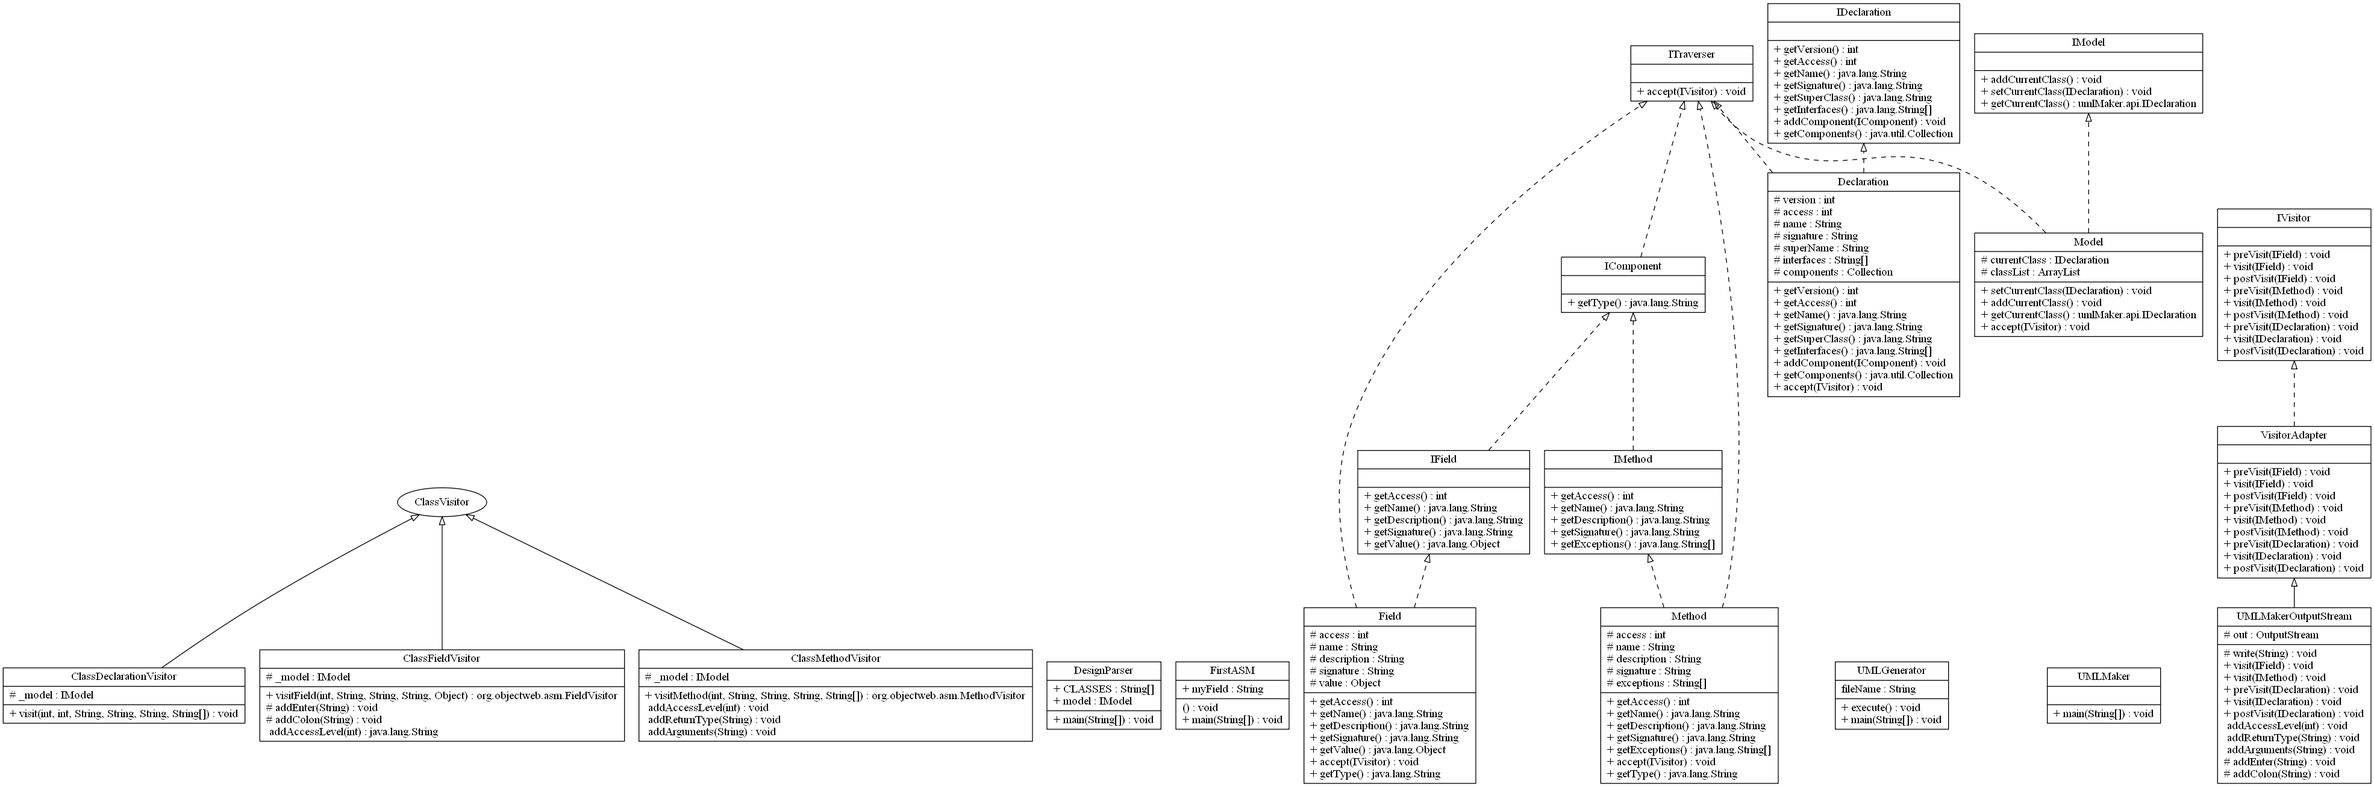
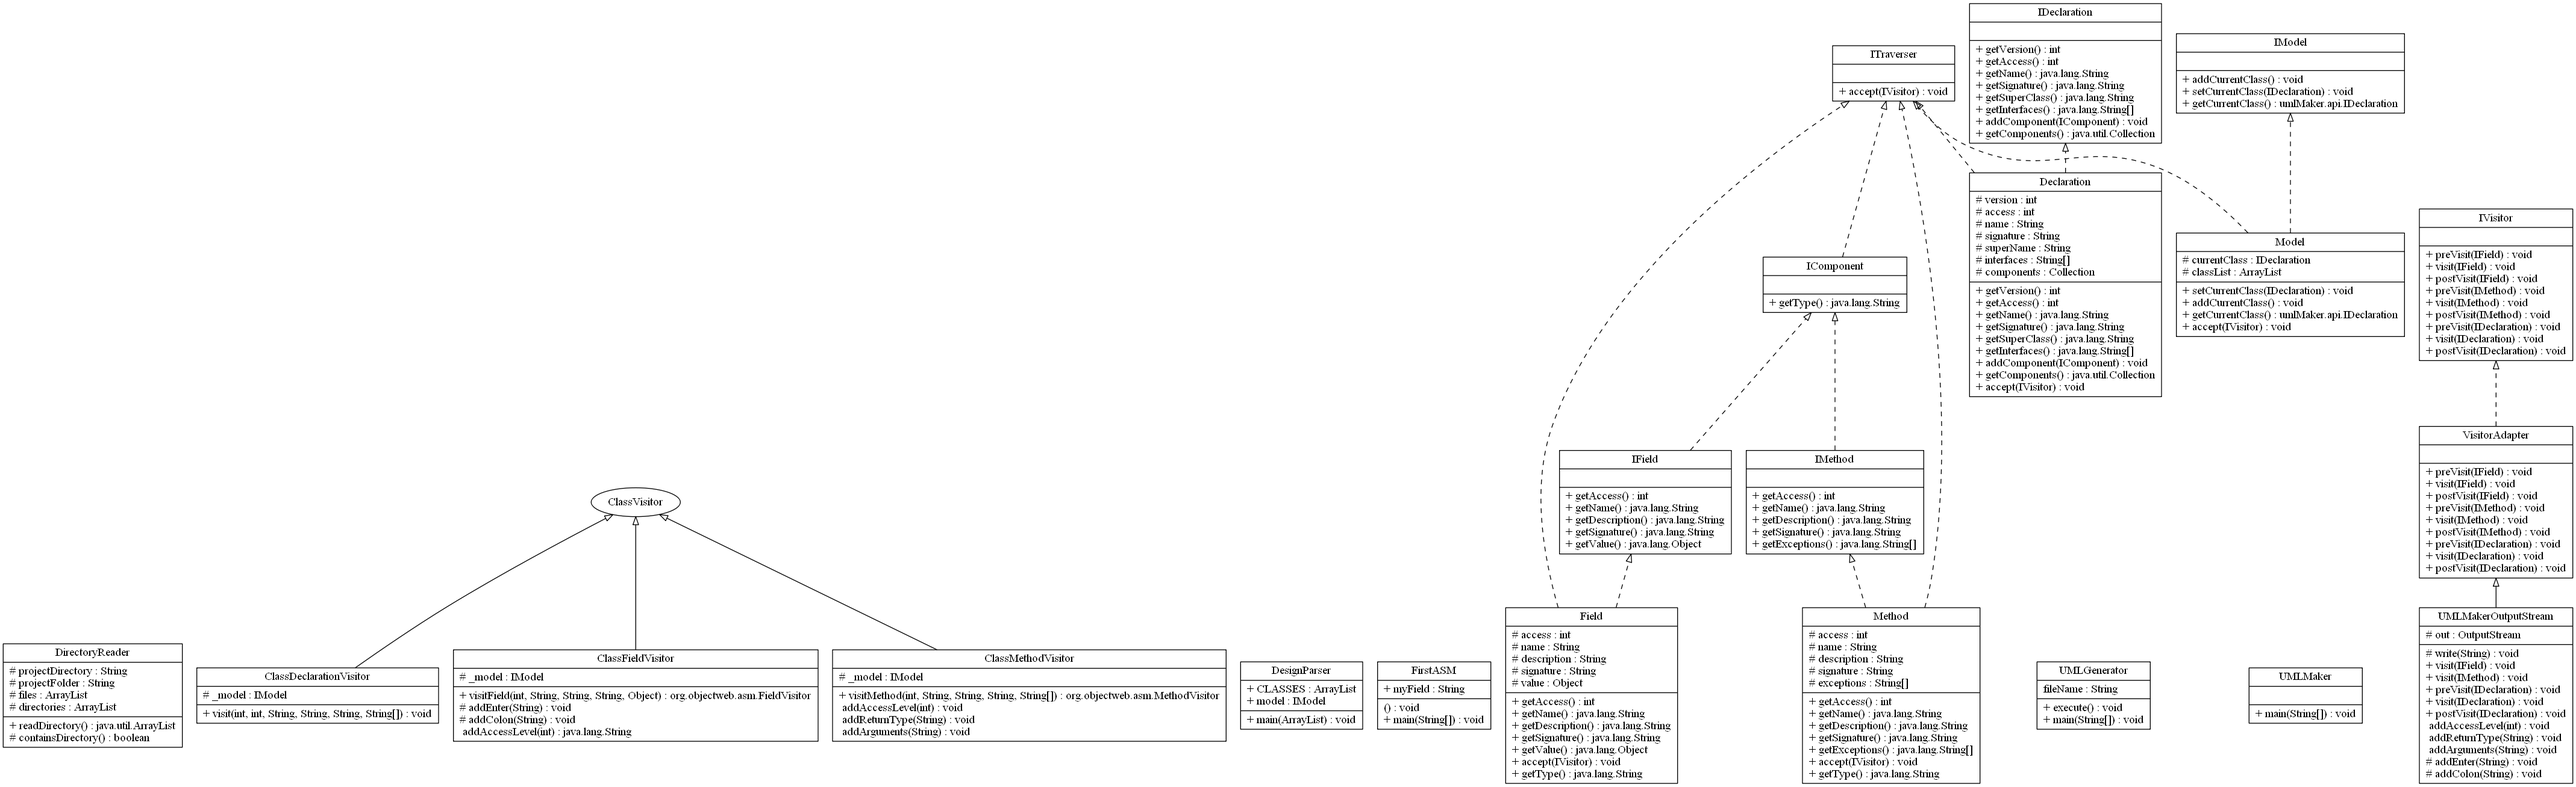
Created DirectoryReader for easy file reading

diff --git a/src/directory/reader/DirectoryReader.java b/src/directory/reader/DirectoryReader.java
@@ -1,0 +1,67 @@
+package directory.reader;
+
+import java.io.File;
+import java.util.ArrayList;
+
+public class DirectoryReader {
+
+	private String projectDirectory = "";
+	private String projectFolder;
+	private ArrayList<String> files = new ArrayList<String>();
+	private ArrayList<String> directories = new ArrayList<String>();
+
+	public DirectoryReader(String folder) {
+		this.projectFolder = folder;
+	}
+
+	public DirectoryReader(String folder, String directory) {
+		this.projectFolder = folder;
+		this.projectDirectory = directory;
+	}
+
+	public ArrayList<String> readDirectory() {
+		String[] directoryAdjust = this.projectDirectory.split("\\.");
+		String folderName = "";
+		for(String directoryName : directoryAdjust) {
+			folderName = folderName + "\\" + directoryName;
+		}
+		File folder = new File(this.projectFolder + folderName);
+		File[] listOfFiles = folder.listFiles();
+
+		for (int i = 0; i < listOfFiles.length; i++) {
+			if (listOfFiles[i].isFile()) {
+				if(!this.projectDirectory.equals("")){
+					this.files.add(this.projectDirectory + "." + listOfFiles[i].getName().split("\\.")[0]);
+				}
+				else {
+					this.files.add(listOfFiles[i].getName().split("\\.")[0]);
+				}
+			} else if (listOfFiles[i].isDirectory()) {
+				this.directories.add(listOfFiles[i].getName());
+			}
+		}
+
+		if (containsDirectory()) {
+			for (String directory : this.directories) {
+				DirectoryReader reader = new DirectoryReader(this.projectFolder + "\\" + this.projectDirectory,
+						directory);
+				ArrayList<String> innerFiles = reader.readDirectory();
+				ArrayList<String> adjustedNames = new ArrayList<String>();
+				if (!this.projectDirectory.equals("")) {
+					for (String name : innerFiles) {
+						adjustedNames.add(this.projectDirectory + "." + name);
+					}
+					this.files.addAll(adjustedNames);
+				}
+				else {
+					this.files.addAll(innerFiles);
+				}
+			}
+		}
+		return this.files;
+	}
+
+	private boolean containsDirectory() {
+		return this.directories.size() > 0;
+	}
+}

diff --git a/src/umlMaker/app/UMLMaker.java b/src/umlMaker/app/UMLMaker.java
@@ -3,7 +3,9 @@ package umlMaker.app;
 import java.io.FileOutputStream;
 import java.io.IOException;
 import java.io.OutputStream;
+import java.util.ArrayList;
 
+import directory.reader.DirectoryReader;
 import problem.asm.DesignParser;
 import umlMaker.impl.UMLMakerOutputStream;
 import umlMaker.visitor.api.ITraverser;
@@ -13,35 +15,17 @@ public class UMLMaker {
 
 	public static void main(String[] args) throws IOException {
 		DesignParser parser = new DesignParser();
-		String[] classes = {
-				"problem.asm.ClassDeclarationVisitor",
-				"problem.asm.ClassFieldVisitor",
-				"problem.asm.ClassMEthodVisitor",
-				"problem.asm.DesignParser",
-				"problem.asm.FirstASM",
-				"umlMaker.api.IComponent",
-				"umlMaker.api.IDeclaration",
-				"umlMaker.api.IField",
-				"umlMaker.api.IMethod",
-				"umlMaker.api.IModel",
-				"umlMaker.app.UMLGenerator",
-				"umlMaker.app.UMLMaker",
-				"umlMaker.impl.Declaration",
-				"umlMaker.impl.Field",
-				"umlMaker.impl.Method",
-				"umlMaker.impl.Model",
-				"umlMaker.impl.UMLMakerOutputStream",
-				"umlMaker.visitor.api.ITraverser",
-				"umlMaker.visitor.api.IVisitor",
-				"umlMaker.visitor.api.VisitorAdapter"
-		};
-		parser.main(classes);
+		
+		DirectoryReader reader = new DirectoryReader("C:\\Users\\hennesbm\\Desktop\\CSSE374\\Labs\\Lab 1\\Lab1-3-Solution\\src" , "problem");
+		ArrayList<String> files = reader.readDirectory();
+		
+		parser.main(files);
 
 		OutputStream xmlOut = new FileOutputStream("docs/UML.txt");
 		IVisitor xmlWriter = new UMLMakerOutputStream(xmlOut);
 
 		ITraverser traverser = (ITraverser) parser.model;
-		String title = "UMLMaker";
+		String title = "Lab1_3";
 		xmlOut.write("digraph ".getBytes());
 		xmlOut.write(title.getBytes());
 		xmlOut.write(" { rankdir=BT;".getBytes());

diff --git a/src/problem/asm/DesignParser.java b/src/problem/asm/DesignParser.java
@@ -1,6 +1,8 @@
 package problem.asm;
 
 import java.io.IOException;
+import java.util.ArrayList;
+
 import org.objectweb.asm.ClassReader;
 import org.objectweb.asm.ClassVisitor;
 import org.objectweb.asm.Opcodes;
@@ -9,7 +11,7 @@ import umlMaker.api.IModel;
 import umlMaker.impl.Model;
 
 public class DesignParser {
-	public String[] CLASSES;
+	public ArrayList<String> CLASSES;
 	public IModel model;
 	/**
 	 * Reads in a list of Java Classes and reverse engineers their design.
@@ -20,8 +22,8 @@ public class DesignParser {
 	 *            edu.rosehulman.csse374.ClassFieldVisitor java.lang.Math
 	 * @throws IOException
 	 */
-	public void main(String[] args) throws IOException {
-		this.CLASSES = args;
+	public void main(ArrayList<String> files) throws IOException {
+		this.CLASSES = files;
 		
 		this.model = new Model();
 

diff --git a/src/umlMaker/impl/UMLMakerOutputStream.java b/src/umlMaker/impl/UMLMakerOutputStream.java
@@ -95,7 +95,8 @@ public class UMLMakerOutputStream extends VisitorAdapter {
 
 	void addReturnType(String desc) {
 		String returnType = Type.getReturnType(desc).getClassName();
-		write(returnType);
+		String[] returnName = returnType.split("\\.");
+		write(returnName[returnName.length - 1]);
 	}
 
 	void addArguments(String desc) {
